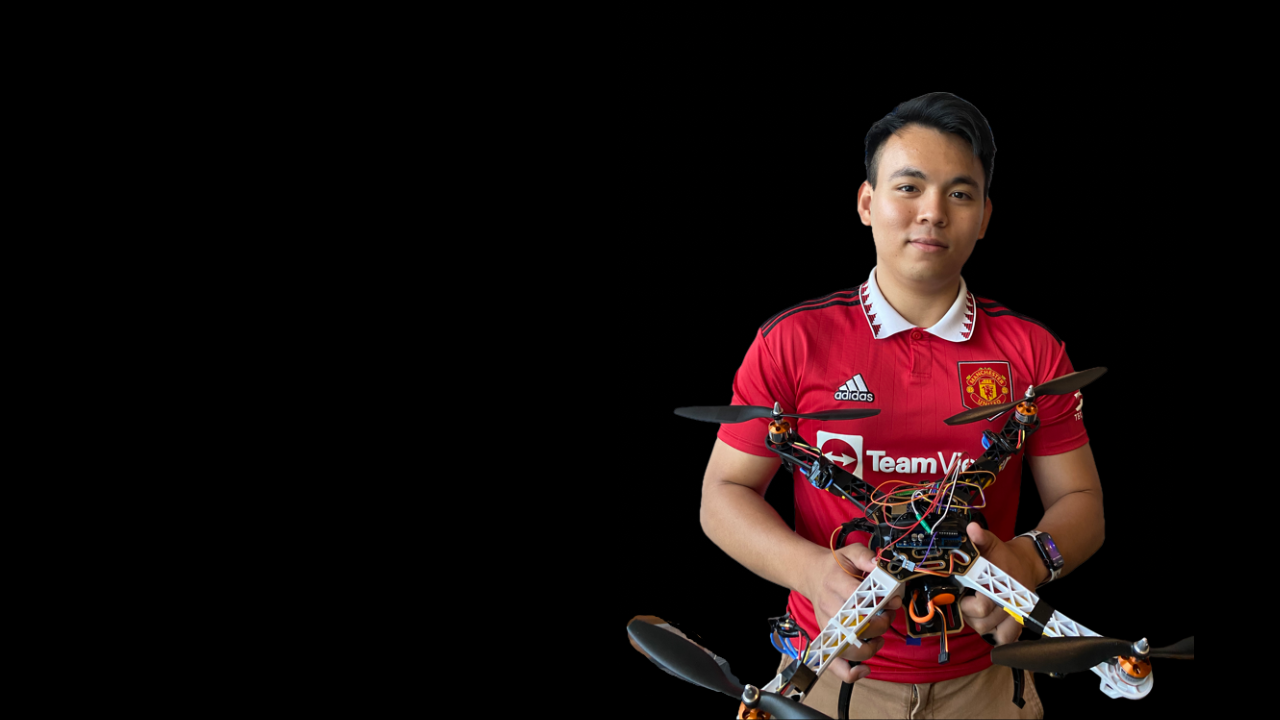
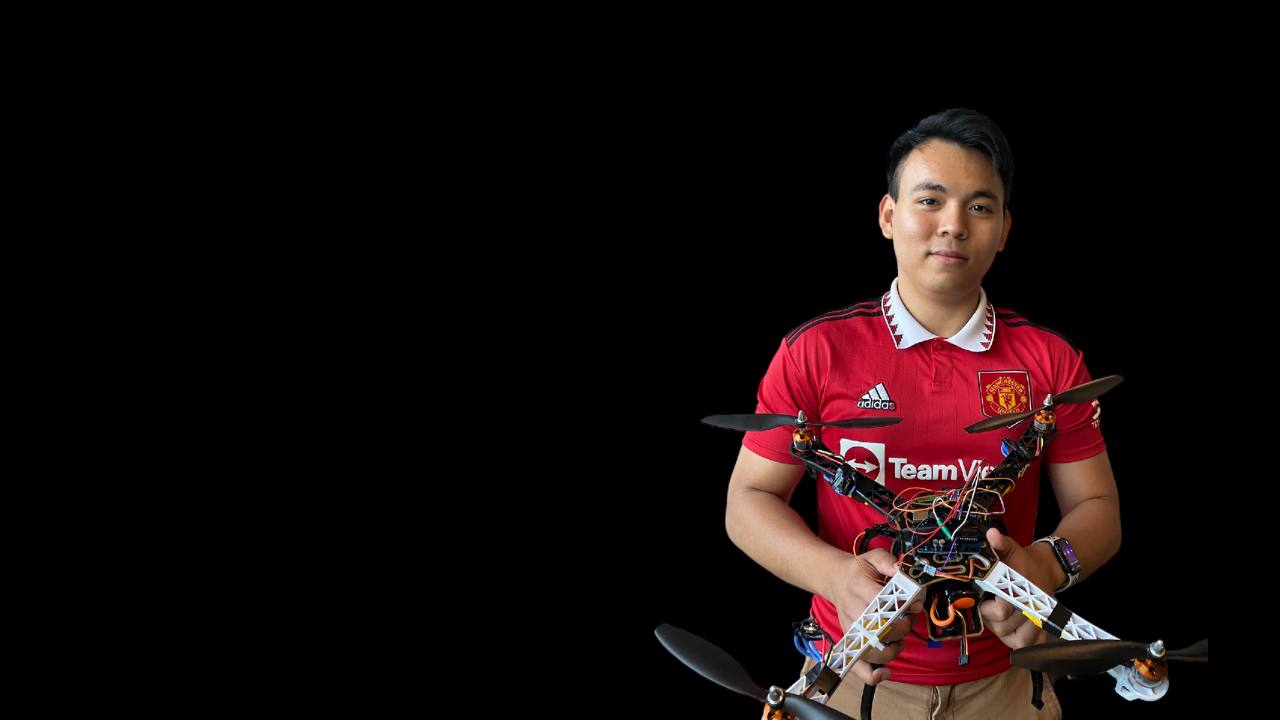
Mobile Back Ground Image Updated

Changed region(s): [[0.4688, 0.1222, 0.9688, 1.0]]

diff --git a/resources/css/index.css b/resources/css/index.css
@@ -382,7 +382,7 @@ nav .fa-solid{
 }
 @media only screen and (max-width: 600px){
   #header{
-    background-image: url(/resources/images/Background_sized.png);
+    background-image: url(/resources/images/Background_resized.png);
   }
   .header-text{
     margin-top: 100%;
